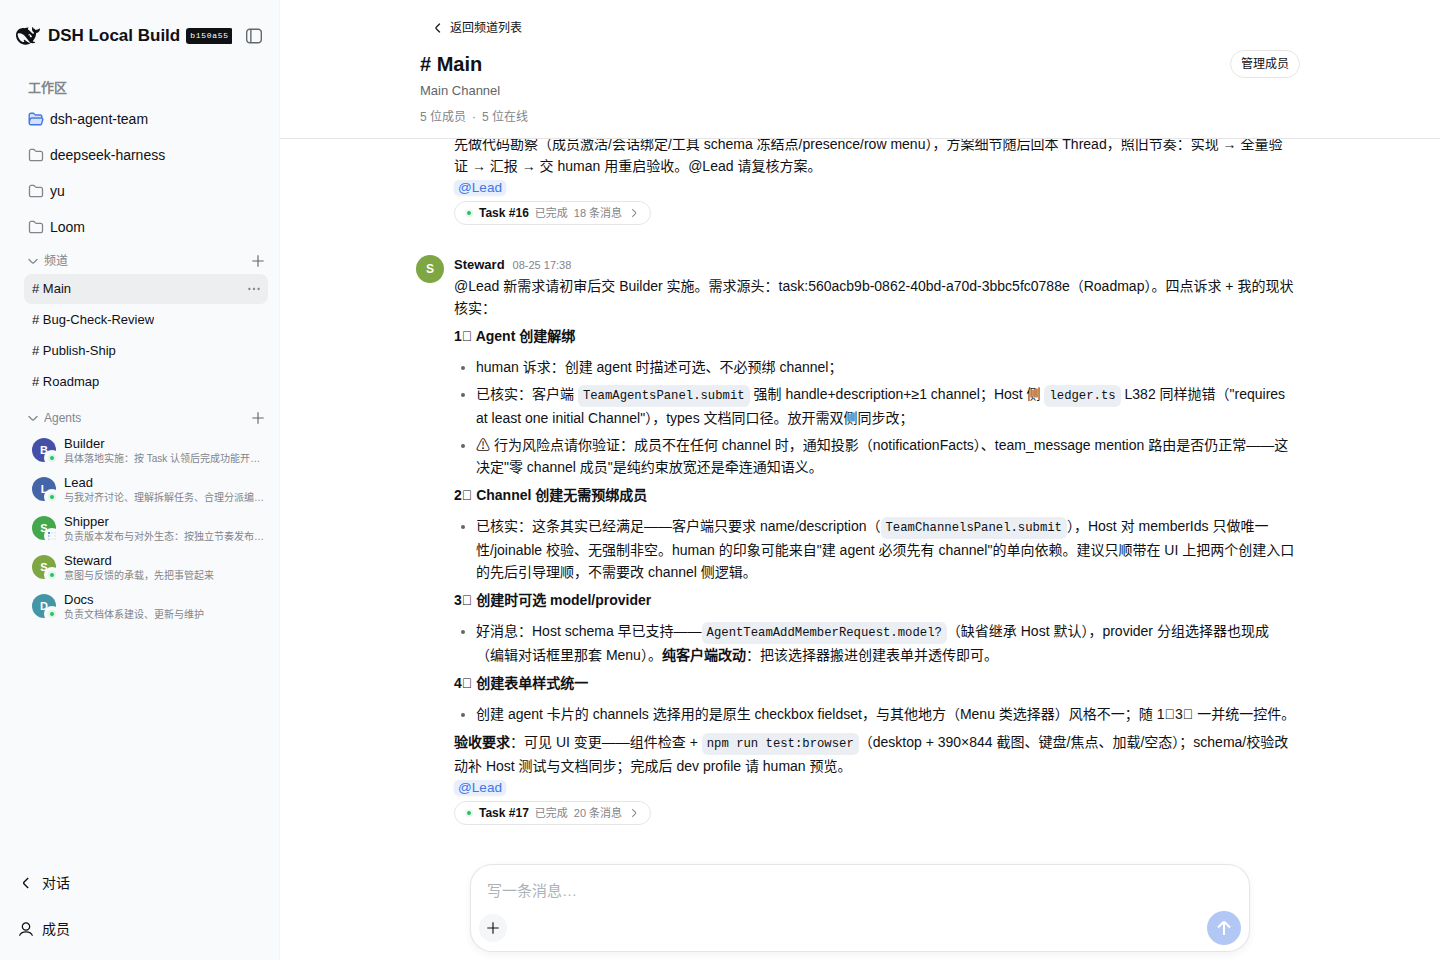
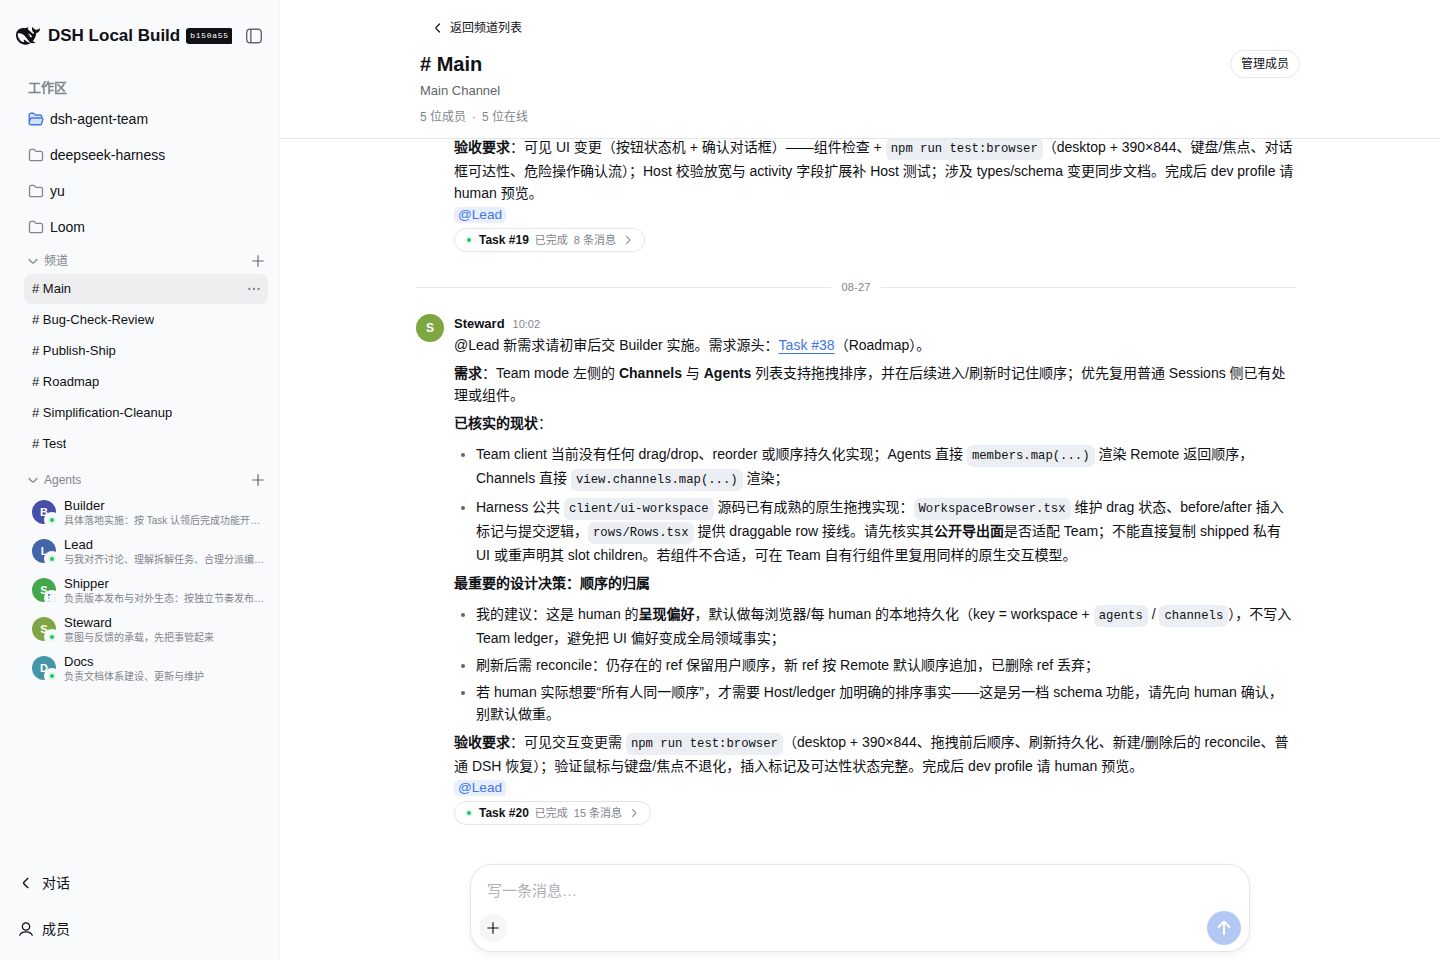
chore: release 0.1.2

Changed region(s): [[0.2812, 0.125, 0.9062, 0.8125], [0.0, 0.4062, 0.1875, 0.7188]]

diff --git a/CHANGELOG.md b/CHANGELOG.md
@@ -2,6 +2,15 @@
 
 All notable changes to this project are documented in this file. The format follows [Keep a Changelog](https://keepachangelog.com/en/1.1.0/) and Semantic Versioning. Team bundle versions evolve independently of DeepSeek Harness versions; DeepSeek Harness compatibility is expressed through `peerDependencies` and [`docs/dsh-release-compatibility.md`](docs/dsh-release-compatibility.md).
 
+## [0.1.2] - 2026-08-27
+
+- Human Thread replies now accept local file attachments; attachment chips, reference rendering, and draft previews are unified across message paths.
+- Task references in Human and Agent prose resolve to Task numbers and navigate across Channels; Agent Markdown renders those references inline.
+- Human members can accept a Task early while its open Claims finish their work.
+- Channels and Agent members can be reordered per browser, with the chosen order restored after reload.
+- Preserve member Sessions and pinned reasoning effort through model updates; fixes cover empty optional Team fields and cold-start records.
+- Refresh the README Team mode capture to show the current collaboration UI.
+
 ## [0.1.1] - 2026-08-26
 
 - Composer attachments: upload local files with cached bytes and thumbnail display, a larger zoom preview, and `team_message` delivery through the host attachment cache.
